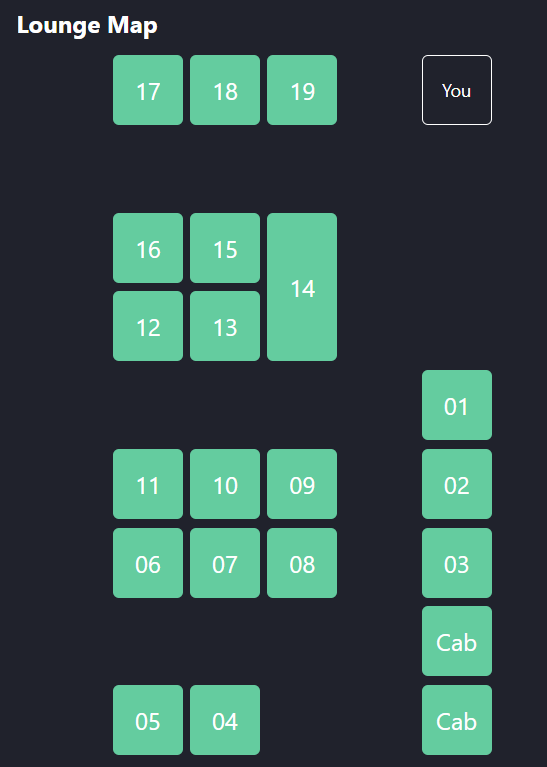
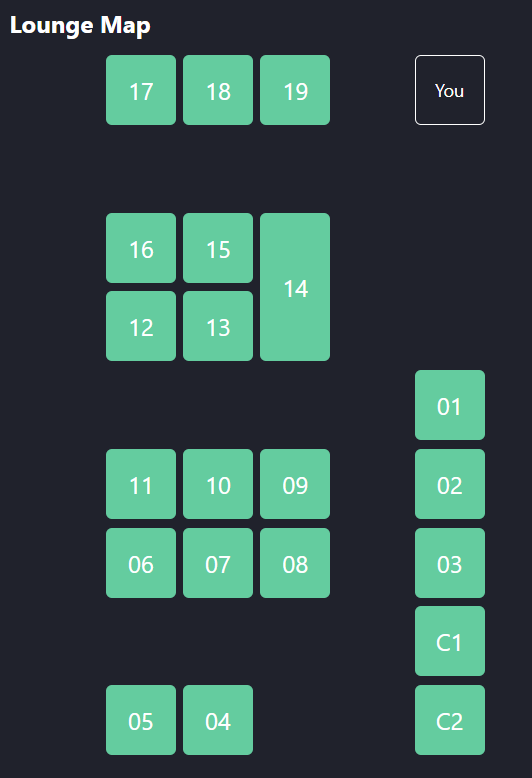
Updated Cab to be C1 and C2

diff --git a/client/src/app/lounge/pc-station.tsx b/client/src/app/lounge/pc-station.tsx
@@ -49,8 +49,13 @@ const PCStation: React.FC<PCStationProps> = ({ pc, pcStatus, onClick }) => {
   // Double height PC is PC 14, cab desks are 21 and 22, and the admin (exec) desk is 20.
   // ========================================
   const isDoubleHeight = pc.pcNumber === 14;
-  const isCab = pc.pcNumber === 21 || pc.pcNumber === 22;
   const isAdmin = pc.pcNumber === 20;
+  const stationLabel =
+    pc.pcNumber === 21
+      ? "C1"
+      : pc.pcNumber === 22
+        ? "C2"
+        : pc.pcNumber.toString().padStart(2, "0");
   // ========================================
 
   if (isAdmin) {
@@ -92,9 +97,7 @@ const PCStation: React.FC<PCStationProps> = ({ pc, pcStatus, onClick }) => {
       }}
     >
       <div className="text-center">
-        <p className="text-2xl">
-          {isCab ? "Cab" : pc.pcNumber.toString().padStart(2, "0")}
-        </p>
+        <p className="text-2xl">{stationLabel}</p>
         {pcStatus === PCStatus.Busy && (
           <p className="text-xs">{timeRemaining}</p>
         )}

diff --git a/client/src/app/lounge/lounge-layout/README.md b/client/src/app/lounge/lounge-layout/README.md
@@ -18,5 +18,5 @@ Below is a table representation of each PC's coordinates, and should be updated 
 | 5   |      |      |      |     | PC1 |
 | 6   | PC11 | PC10 | PC9  |     | PC2 |
 | 7   | PC6  | PC7  | PC8  |     | PC3 |
-| 8   |      |      |      |     | Cab |
-| 9   | PC5  | PC4  |      |     | Cab |
+| 8   |      |      |      |     | C1  |
+| 9   | PC5  | PC4  |      |     | C2  |
